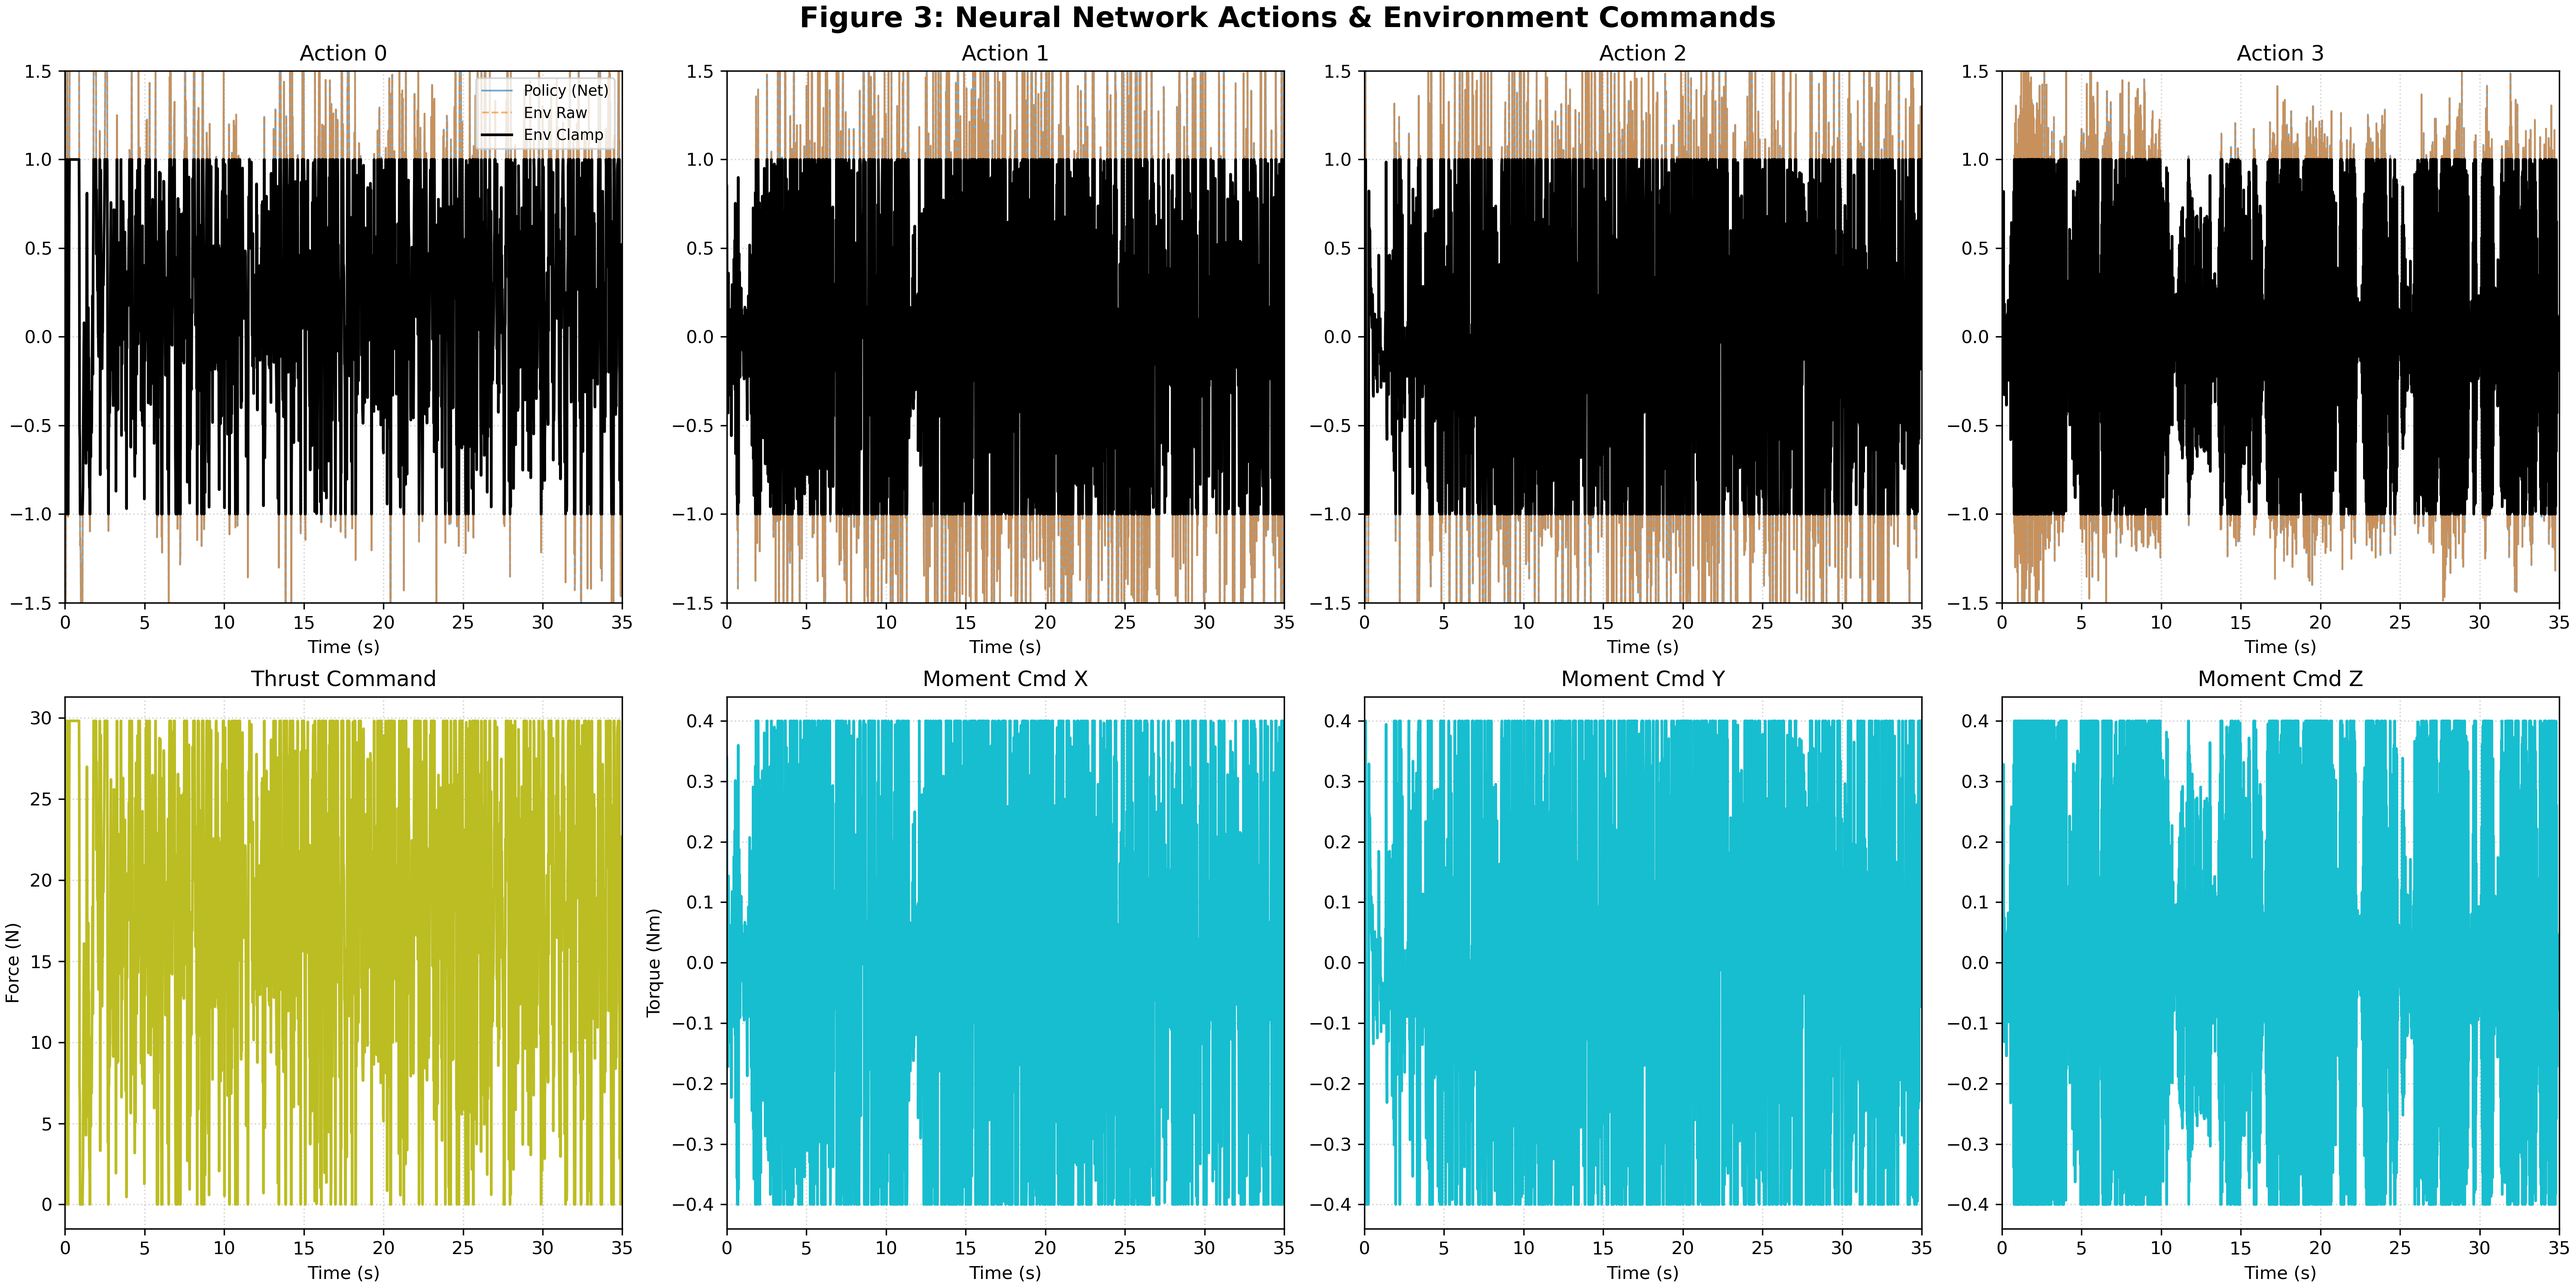
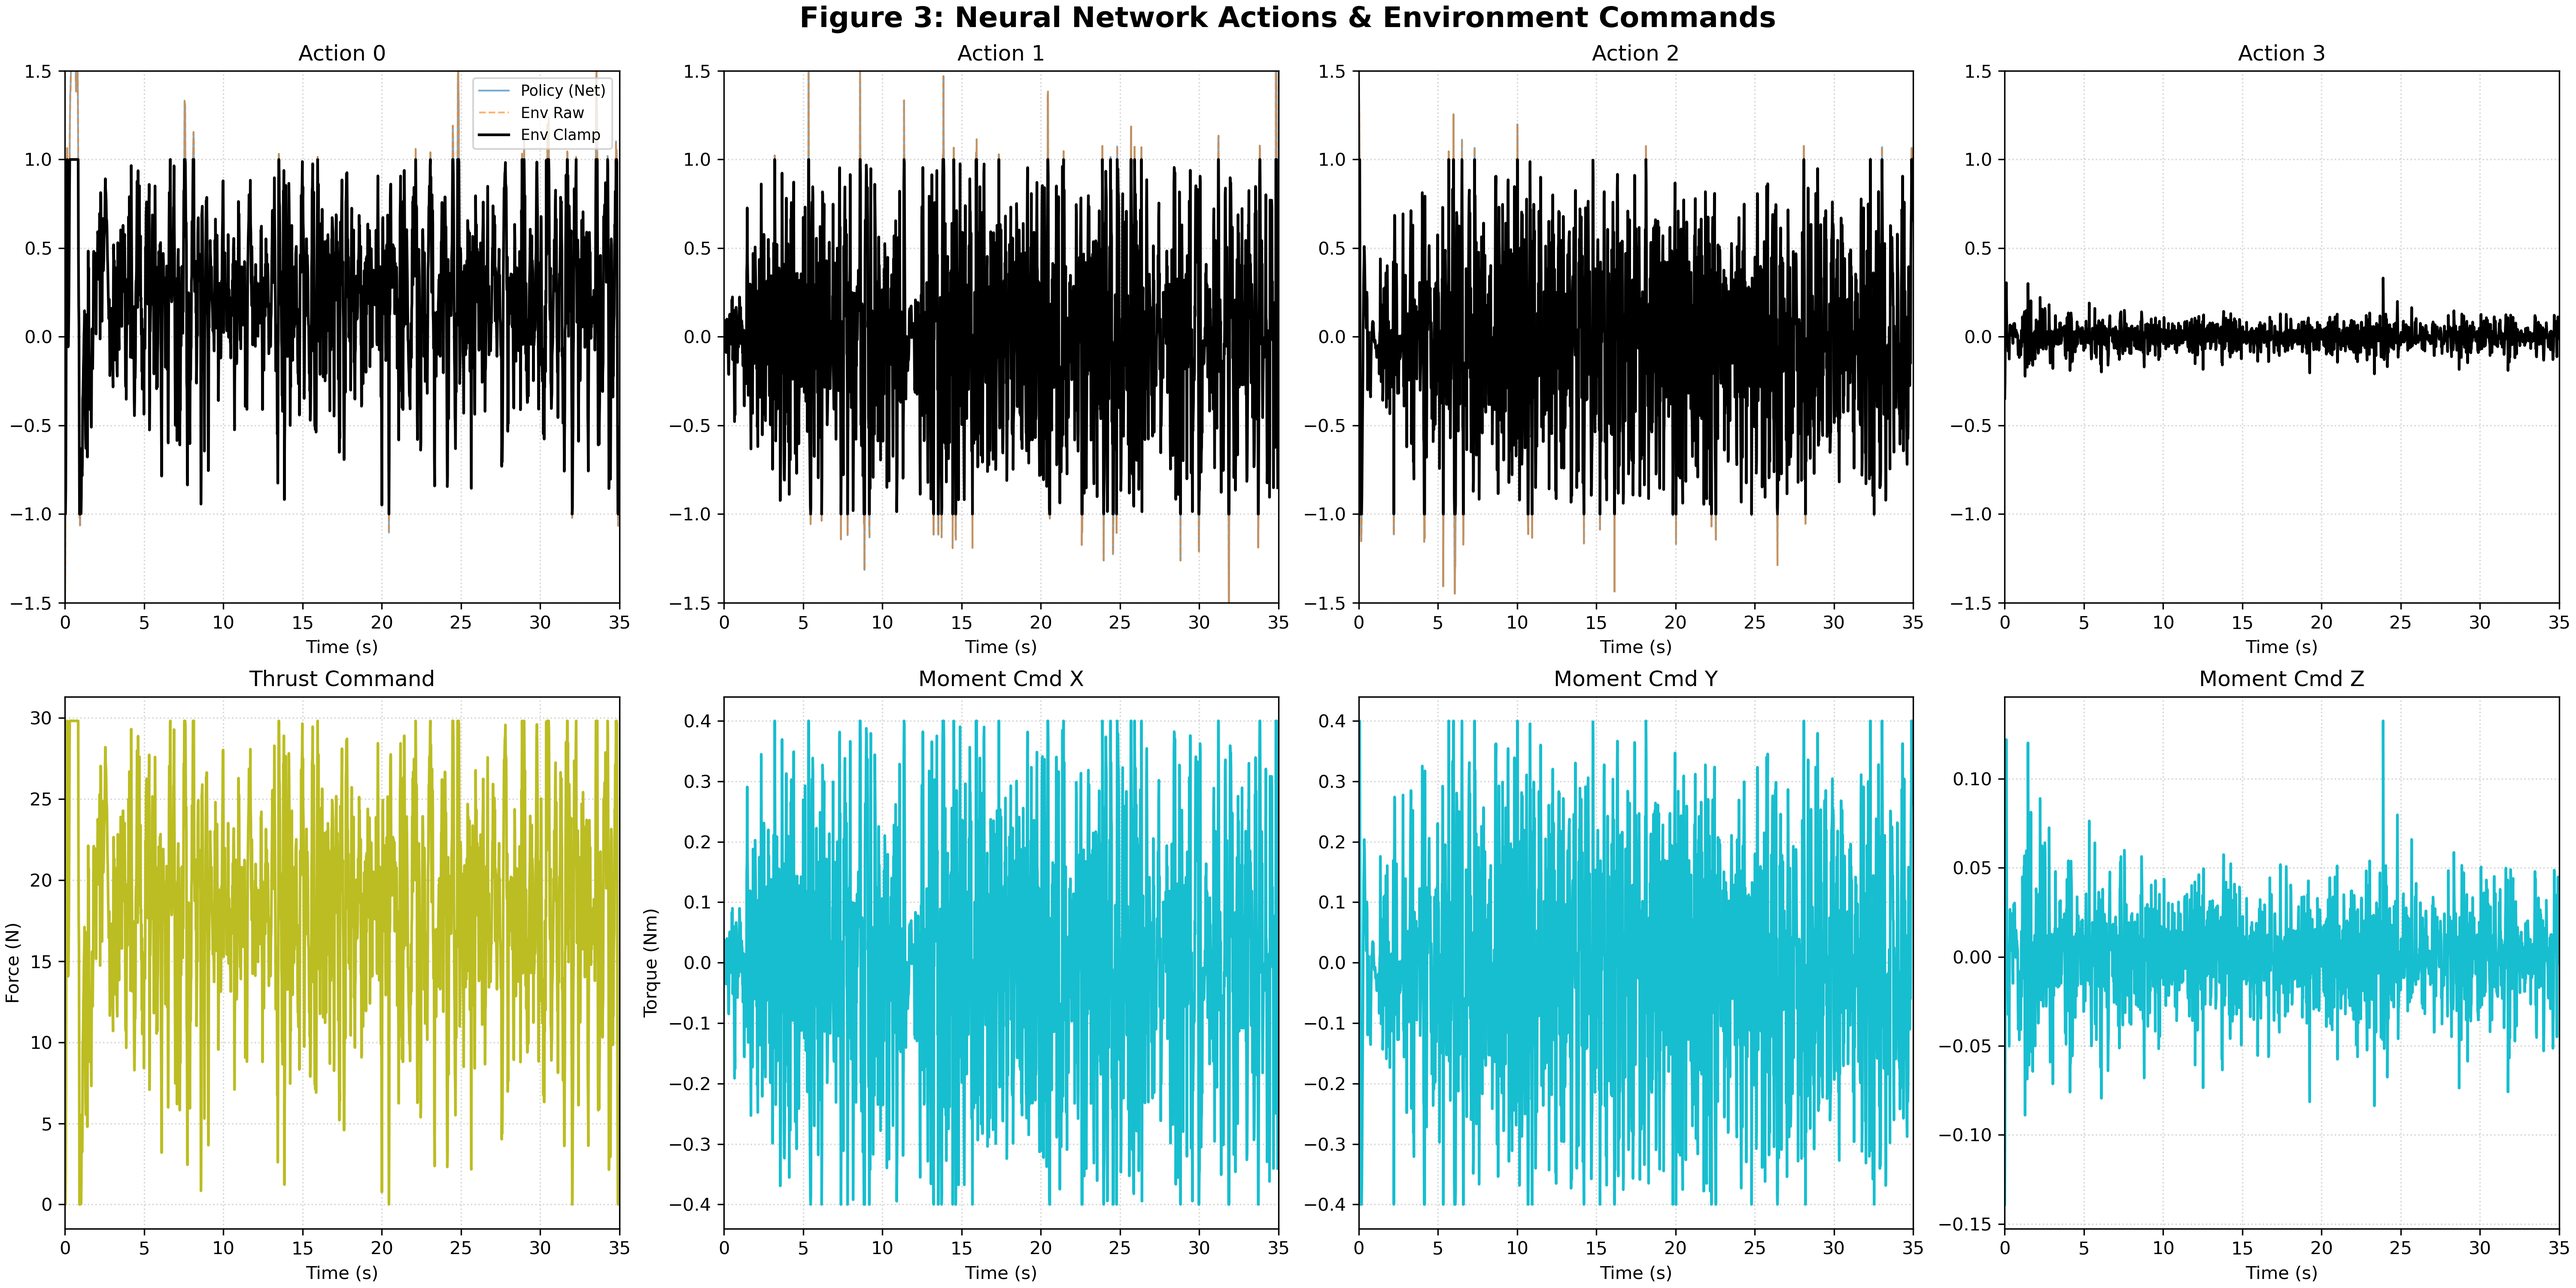
4.5:RMA联合训练decoder解决了action过度饱和问题扩大了Z维度

diff --git a/source/uav_payload_lab/uav_payload_lab/tasks/direct/uav_payload_lab/plot/IsaaclabPlot12.5.py b/source/uav_payload_lab/uav_payload_lab/tasks/direct/uav_payload_lab/plot/IsaaclabPlot12.5.py
@@ -10,7 +10,7 @@ import math
 # === Analysis window (seconds) ===
 TIME_WINDOW_S = 35   # set None to disable cropping
 
-simulation_data_path = "/home/shenji/uav_payload_lab/uav_payload_lab/logs/rsl_rl/Encoder_DataCollectionMLW/2026-02-06_02-02-11/payload_data.csv" 
+simulation_data_path = "/home/shenji/uav_payload_lab/uav_payload_lab/logs/rsl_rl/Encoder_DataCollectionMLW/2026-02-06_14-29-11/11000.csv" 
 paper_data_path = "/home/shenji/uav_payload_lab/uav_payload_lab/source/uav_payload_lab/uav_payload_lab/tasks/direct/uav_payload_lab/plot/普通控制器vs.heanhua.csv" 
 
 # 坐标系校正 (World -> Task)

diff --git a/source/uav_payload_lab/uav_payload_lab/tasks/direct/uav_payload_meta/meta_uav_env_cfg.py b/source/uav_payload_lab/uav_payload_lab/tasks/direct/uav_payload_meta/meta_uav_env_cfg.py
@@ -188,7 +188,7 @@ class UavPayloadMetaEnvCfg(DirectRLEnvCfg):
     tilt_weight = 0.15          # 摆角 / 摆速 shaping 权重
     time_penalty = 0.01         # 每秒时间惩罚系数（越大越鼓励快完成）
     death_penalty = 20       # 摔机一次性扣多少（可以先 10，觉得不够再加大）
-    action_l2_penalty_scale = 0.002
+    action_l2_penalty_scale = 0.01
     spin_weight = 0.15   # 【新增】自旋惩罚权重
     heading_weight = 0.5     # 【新增】航向对齐权重，用于抑制 Yaw 角度 (P控制)
     # === 任务设置（相对每个 env 的原点，ENU）===

diff --git a/source/uav_payload_lab/uav_payload_lab/tasks/direct/uav_payload_meta/rma_actor_critic.py b/source/uav_payload_lab/uav_payload_lab/tasks/direct/uav_payload_meta/rma_actor_critic.py
@@ -41,7 +41,7 @@ class RMAActorCritic(nn.Module):
         # -------- RMA knobs --------
         proprio_obs_dim: int = 17,
         privileged_obs_dim: int = 5,
-        z_dim: int = 5,
+        z_dim: int = 12,
         z_exp_dim: int = 2,                   # optional split for logging
         use_mu: bool = True,                  # Phase-1 True, Phase-2 False
         mu_hidden_dims: tuple[int] | list[int] = [64, 64],
